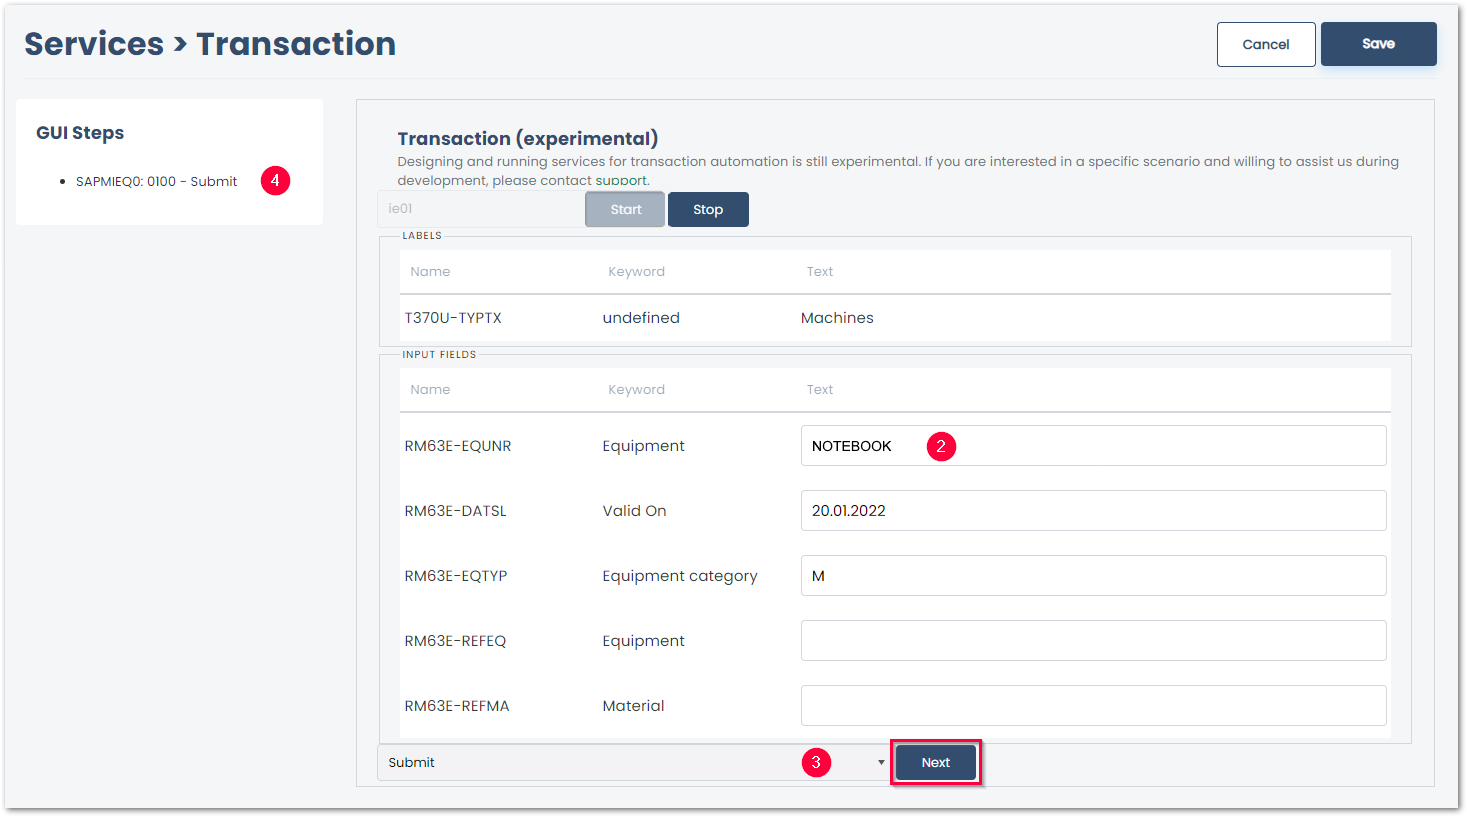
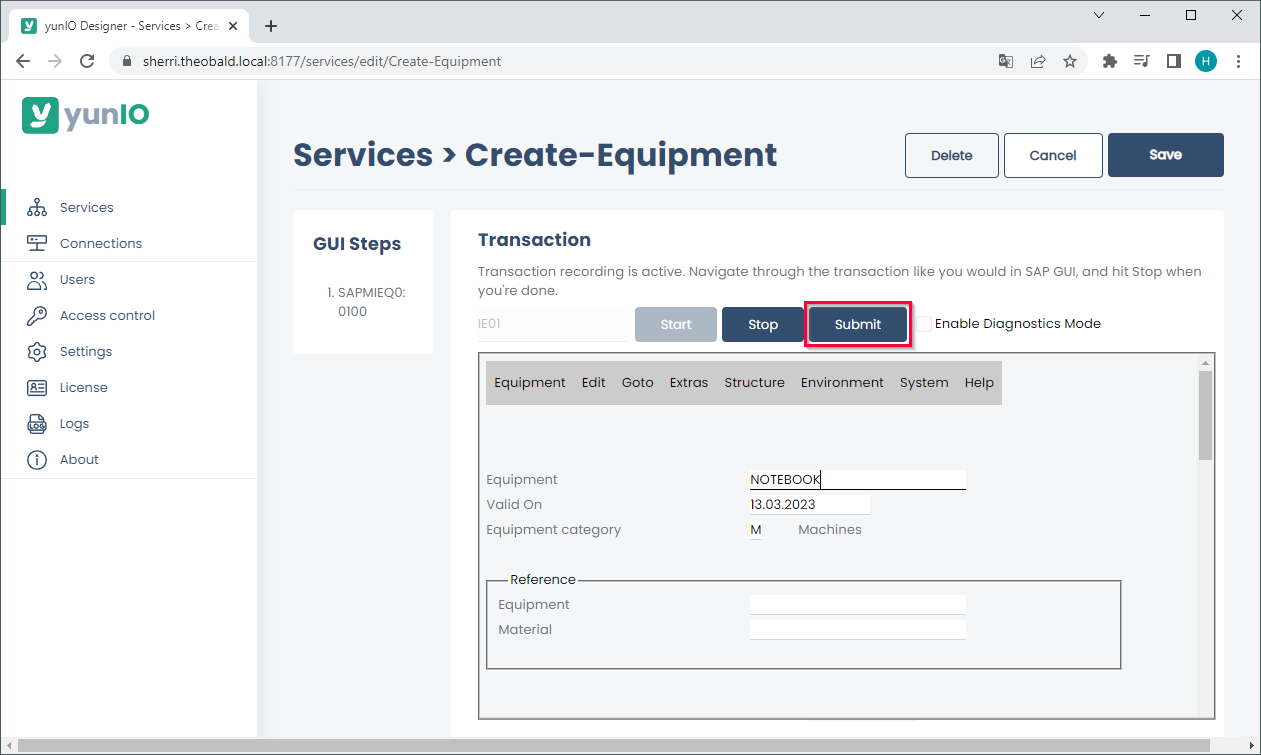
yunIO transaction ie01

diff --git a/content/_yunio/transactions-ie01.md b/content/_yunio/transactions-ie01.md
@@ -1,0 +1,49 @@
+---
+layout: page
+title: Working with Transaction IE01
+description: Creating Equipment Using Transactions in yunIO
+permalink: /:collection/:path
+weight: 50
+---
+
+This article shows how to use the integration type *Transaction* with transaction IE01 in yunIO.<br>
+The following example application uses transaction IE01 to create new equipment in SAP.
+For more information on creating equipment, see [SAP Help: Creating a Piece of Equipment](https://help.sap.com/viewer/f0e0dd7850e64947aa66a647f8d3af09/6.18.latest/en-US/bc78bb53707db44ce10000000a174cb4.html).
+
+
+### Prerequisites
+
+The SAP connection assigned to a transaction service must use an SAP dialog user with enough access rights to create new equipment. 
+
+{: .box-tip }
+**Tip:** The transaction feature of yunIO offers the same functionalities as the SAP GUI. 
+Therefore knowing how to navigate the SAP GUI makes it easier to use the transaction feature. 
+
+### Create Equipment
+
+Follow the steps below to create a new equipment in SAP.<br>
+
+1. Create a new Service with the integration type *Transaction*. For more information on creating a service, see [Creating a Service](https://help.theobald-software.com/en/yunio/getting-started#creating-a-service).
+2. In the transaction service enter the transaction IE01 and press **[Start]**. A replicated SAP GUI of the transaction IE01 is displayed.<br>
+![yunio-Transaction](/img/contents/yunio/transaction.png){:class="img-responsive"}
+3. Edit the fields according to the kind of equipment you want to create e.g., enter a new equipment.
+4. Click **[Submit]** to execute the action and continue to the next screen. All actions are logged in the GUI Steps section of the UI.
+![yunio-Transaction-IE01](/img/contents/yunio/transaction-ie01.png){:class="img-responsive"}
+5. Edit the data of your equipment or record screens for parameterization.<br>
+All fields that need to be parameterized must be available in the section GUI Steps. 
+Example: to parameterize a field in a specific tap or menu, the tab or menu must be accessed when recording the transaction.
+6. Click **[Equipment] > [Save]** to save the new equipment in SAP.<br>
+![yunio-Transaction-IE01-Save](/img/contents/yunio/transaction-save-equipment.png){:class="img-responsive"}
+7. Click **[Save]** to save your actions. <br>
+Alternatively, click **[Stop]** to start parameterizing, see [yunIO Help: Parameterize Transactions](https://help.theobald-software.com/en/yunio/transactions#parameterize-transactions).
+
+{: .box-note }
+**Note:** When using *Transaction*, warnings and error messages from SAP are displayed in yunIO e.g., *"Equipment number... not in external number interval"*.
+These messages are not yunIO specific and should be treated accordingly.
+
+******
+
+#### Related Links
+- [yunIO Help: Getting Started](https://help.theobald-software.com/en/yunio/getting-started)
+- [yunIO Help: Transactions](https://help.theobald-software.com/en/yunio/transactions)
+- [SAP Help: Creating a Piece of Equipment](https://help.sap.com/viewer/f0e0dd7850e64947aa66a647f8d3af09/6.18.latest/en-US/bc78bb53707db44ce10000000a174cb4.html).
